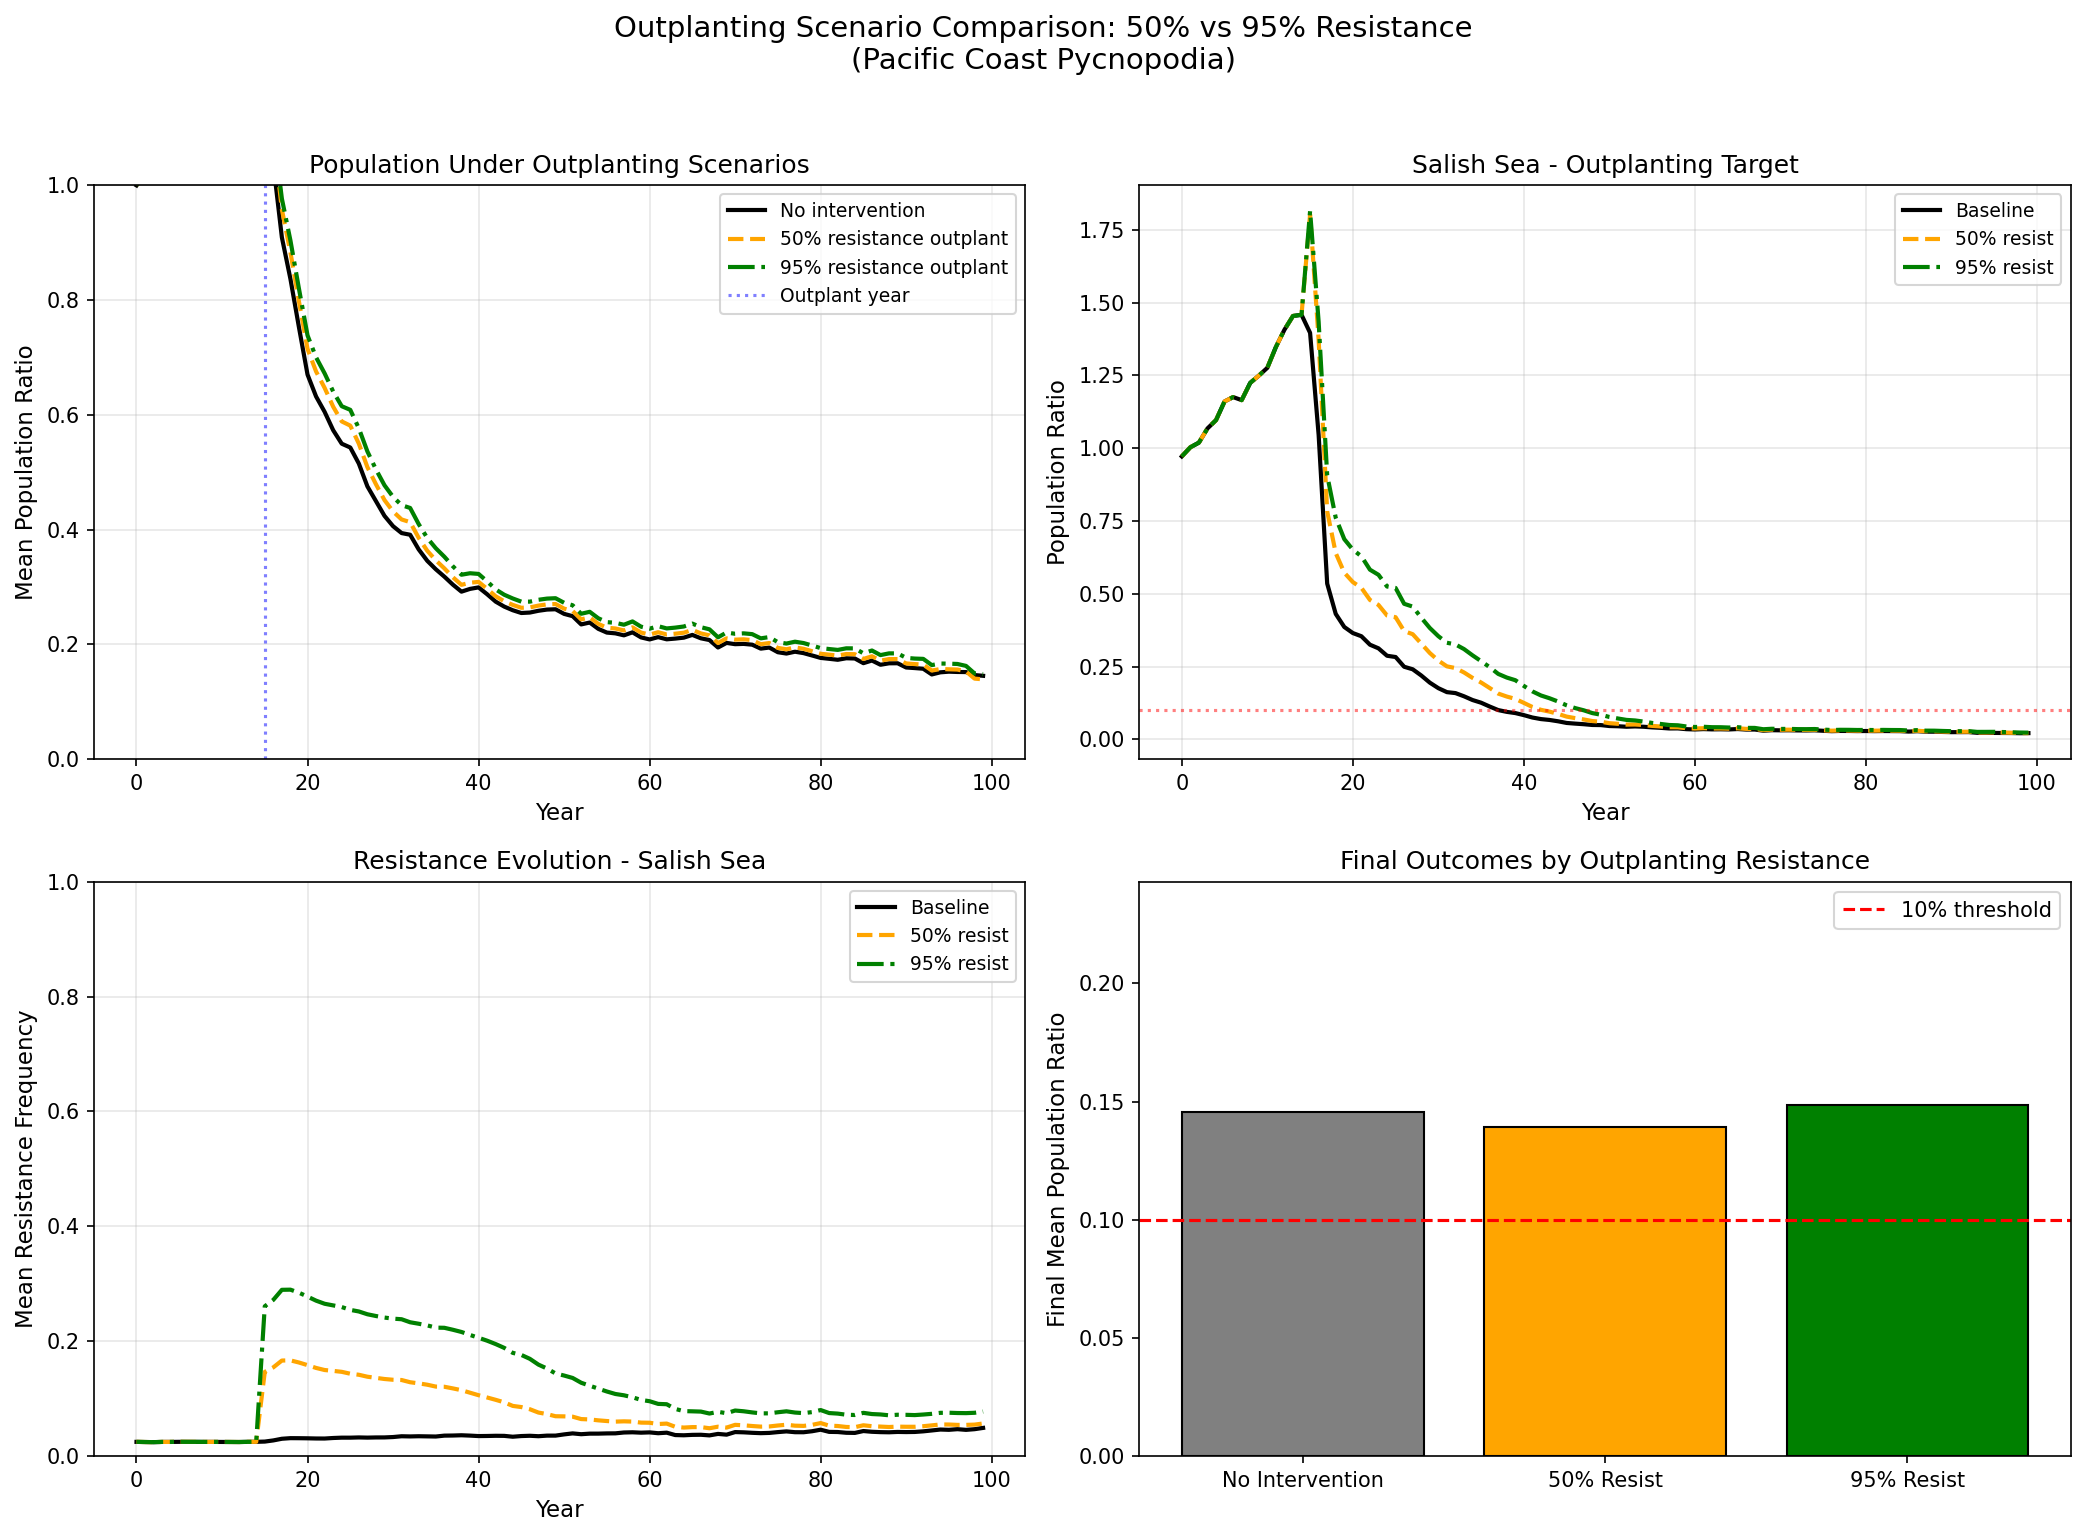
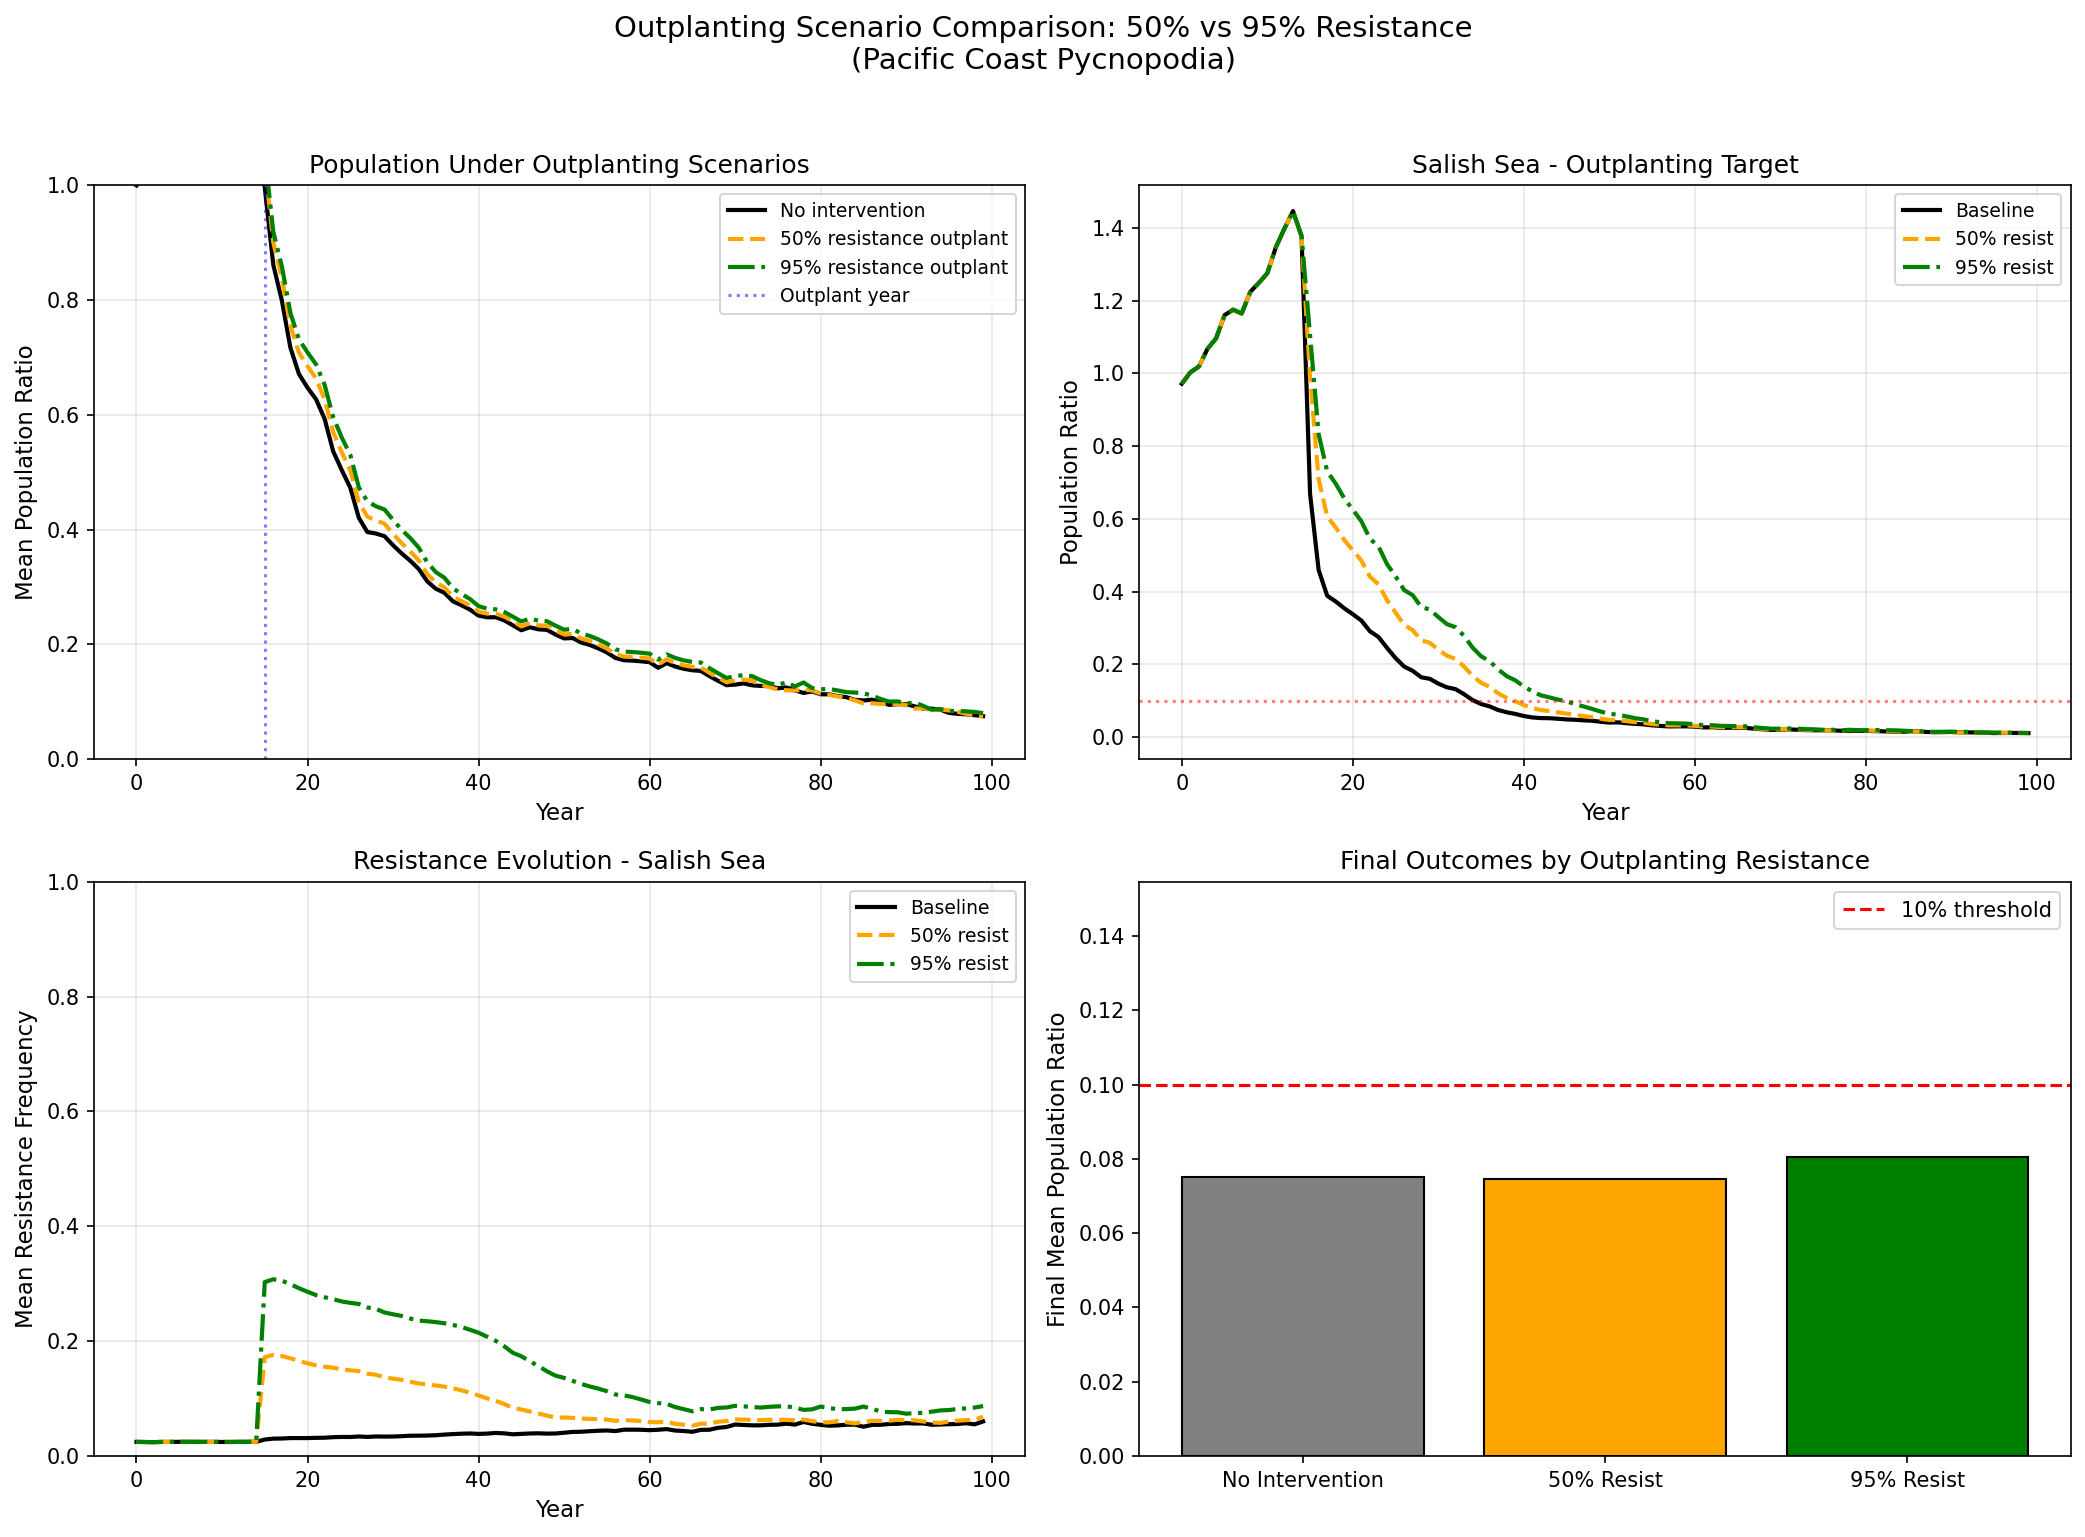
fix: within-region rapid disease spread (SSWD spread in months, not years)

diff --git a/pycnopodia/pacific_coast.py b/pycnopodia/pacific_coast.py
@@ -861,8 +861,22 @@ class PacificCoastSimulation:
                                 temp_mod
                             )
                     
-                    # Probability of infection
-                    infection_prob = 1.0 - np.exp(-transmission_pressure * 15.0)
+                    # Within-region rapid spread: if ANY site in same region
+                    # is already infected, disease spreads fast locally
+                    region_id = self.sites[i].region_id
+                    r_start, r_end = self.region_boundaries[region_id]
+                    region_infected = any(
+                        self.disease_prevalence[j] > 0.1 
+                        for j in range(r_start, r_end) if j != i
+                    )
+                    
+                    if region_infected:
+                        # Within-region spread is very fast (SSWD spread 
+                        # through entire regions in months, not years)
+                        infection_prob = 0.90  # Near-certain within 1 year
+                    else:
+                        # Between-region spread via connectivity matrix
+                        infection_prob = 1.0 - np.exp(-transmission_pressure * 15.0)
                     
                     if self.rng.random() < infection_prob:
                         new_prevalence[i] = 0.80 + self.rng.uniform(0, 0.15)
